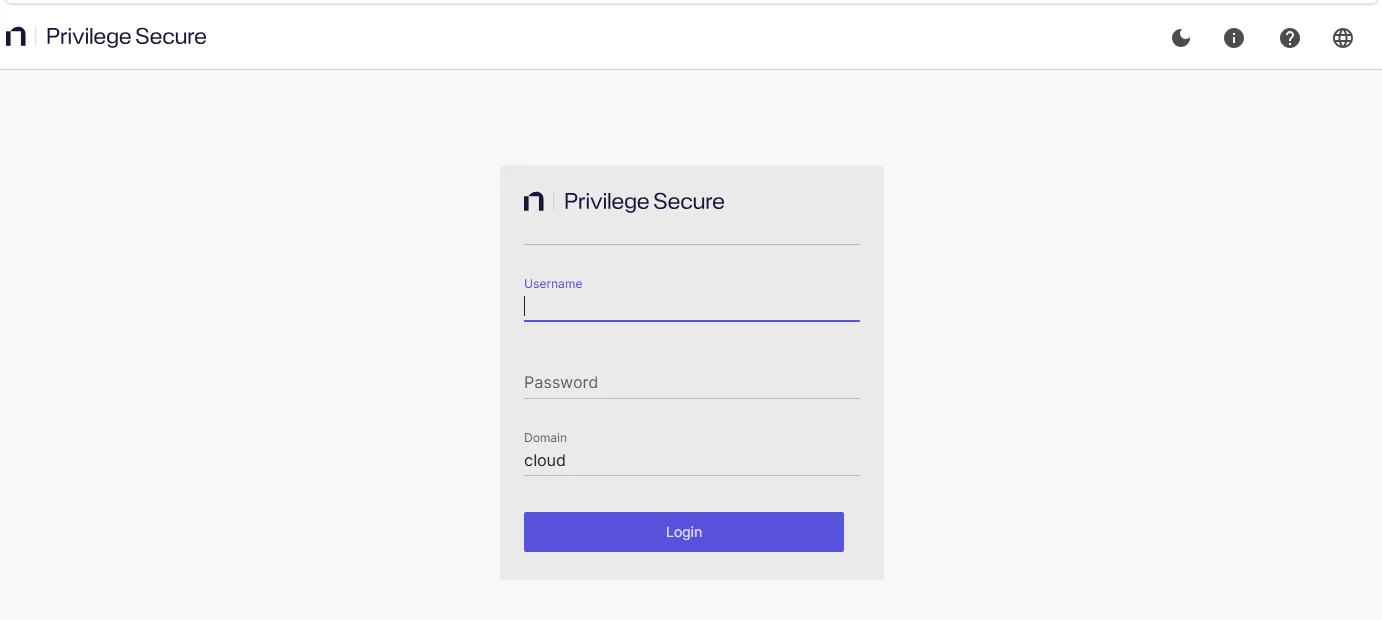
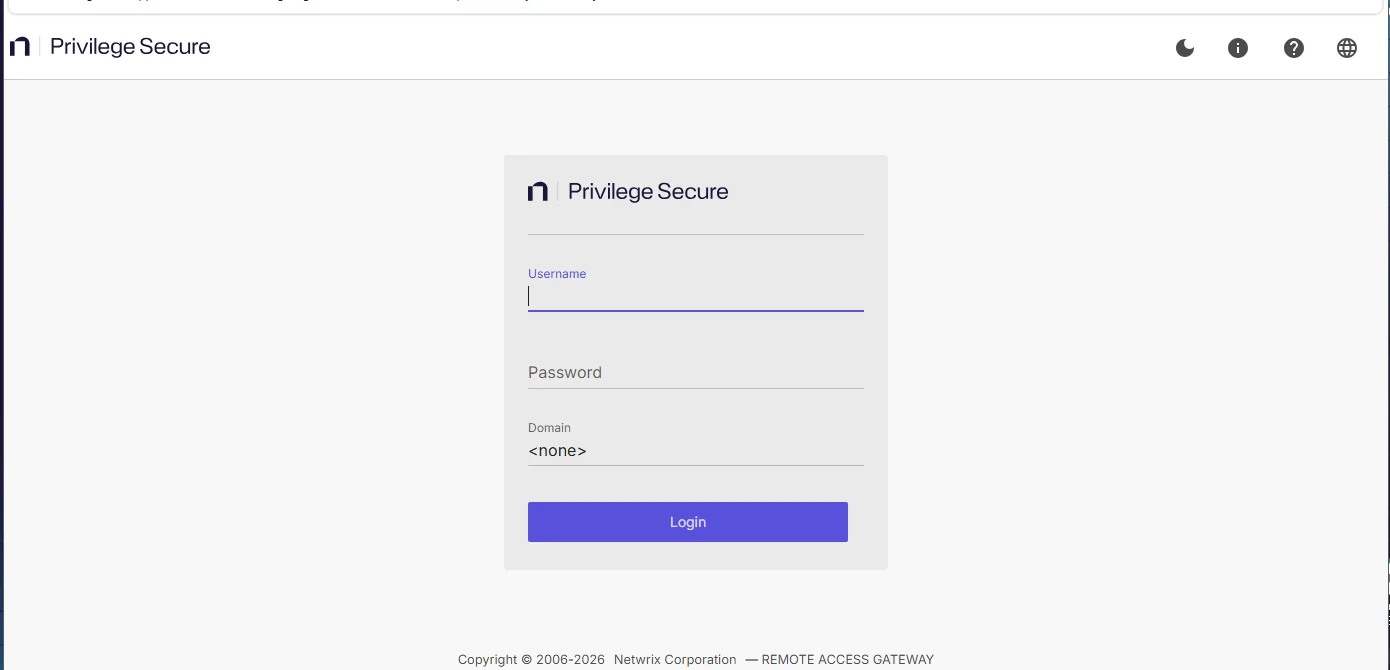
docs(privilegesecure): document the RAG WSL keepalive task; better sign-in image
- install-gateway: the installer registers the Windows task "NPS RAG WSL
  keepalive" (a logon trigger running wsl -d Ubuntu -u root --exec sleep
  infinity) that keeps the Ubuntu distribution and guacd container up.
  Tell the reader to keep it enabled and how to restart guacd if needed.
  Resolves the guacd-reachability TODO.
- Replace the portal sign-in screenshot with a clean capture showing the
  Domain <none> state and the REMOTE ACCESS GATEWAY footer.

diff --git a/docs/privilegesecure/26.07/remote-access-gateway/install/install-gateway.md b/docs/privilegesecure/26.07/remote-access-gateway/install/install-gateway.md
@@ -152,7 +152,7 @@ After every restart, confirm that guacd is running before you rely on the gatewa
 2. In the Ubuntu distribution, run `sudo docker ps`. The output lists a container named `guacd` that publishes port 4822. If `guacd` isn't listed, run `sudo docker start guacd`.
 3. In PowerShell, run `Test-NetConnection <guacd-host> -Port 4822` and confirm that `TcpTestSucceeded` is `True`.
 
-{/* TODO verify: whether guacd is still reachable a few minutes after a restart and after the server is idle for a while. If it isn't, document a keep-alive task. */}
+The installer registers a Windows scheduled task, **NPS RAG WSL keepalive**, that runs at logon. It starts the Ubuntu distribution and keeps it running, so the `guacd` container stays up without a manual `wsl` command. Keep this task enabled. If guacd still becomes unreachable, restart the container: run `wsl -d Ubuntu -u root -- docker restart guacd`, then repeat step 3.
 
 If guacd isn't running, see [Sessions fail after the server restarts](/docs/privilegesecure/26.07/remote-access-gateway/troubleshooting.md#sessions-fail-after-the-server-restarts).
 
